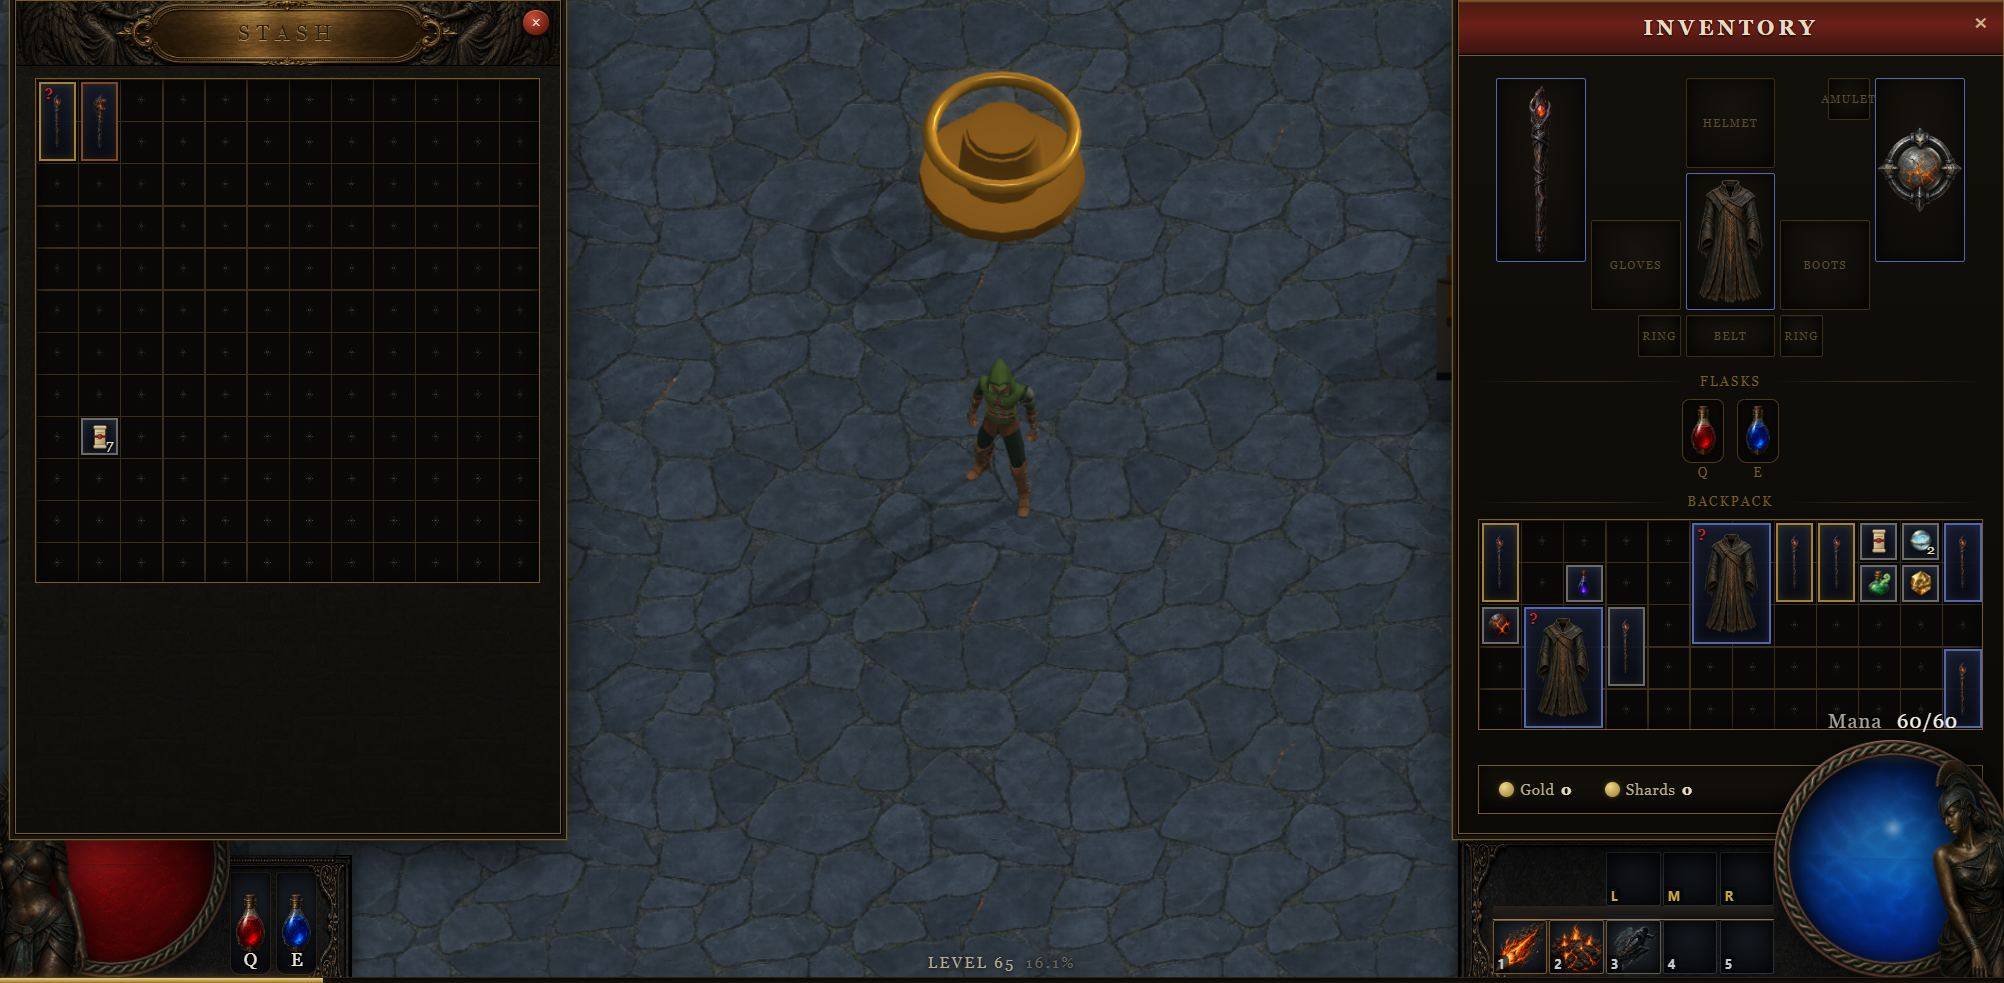
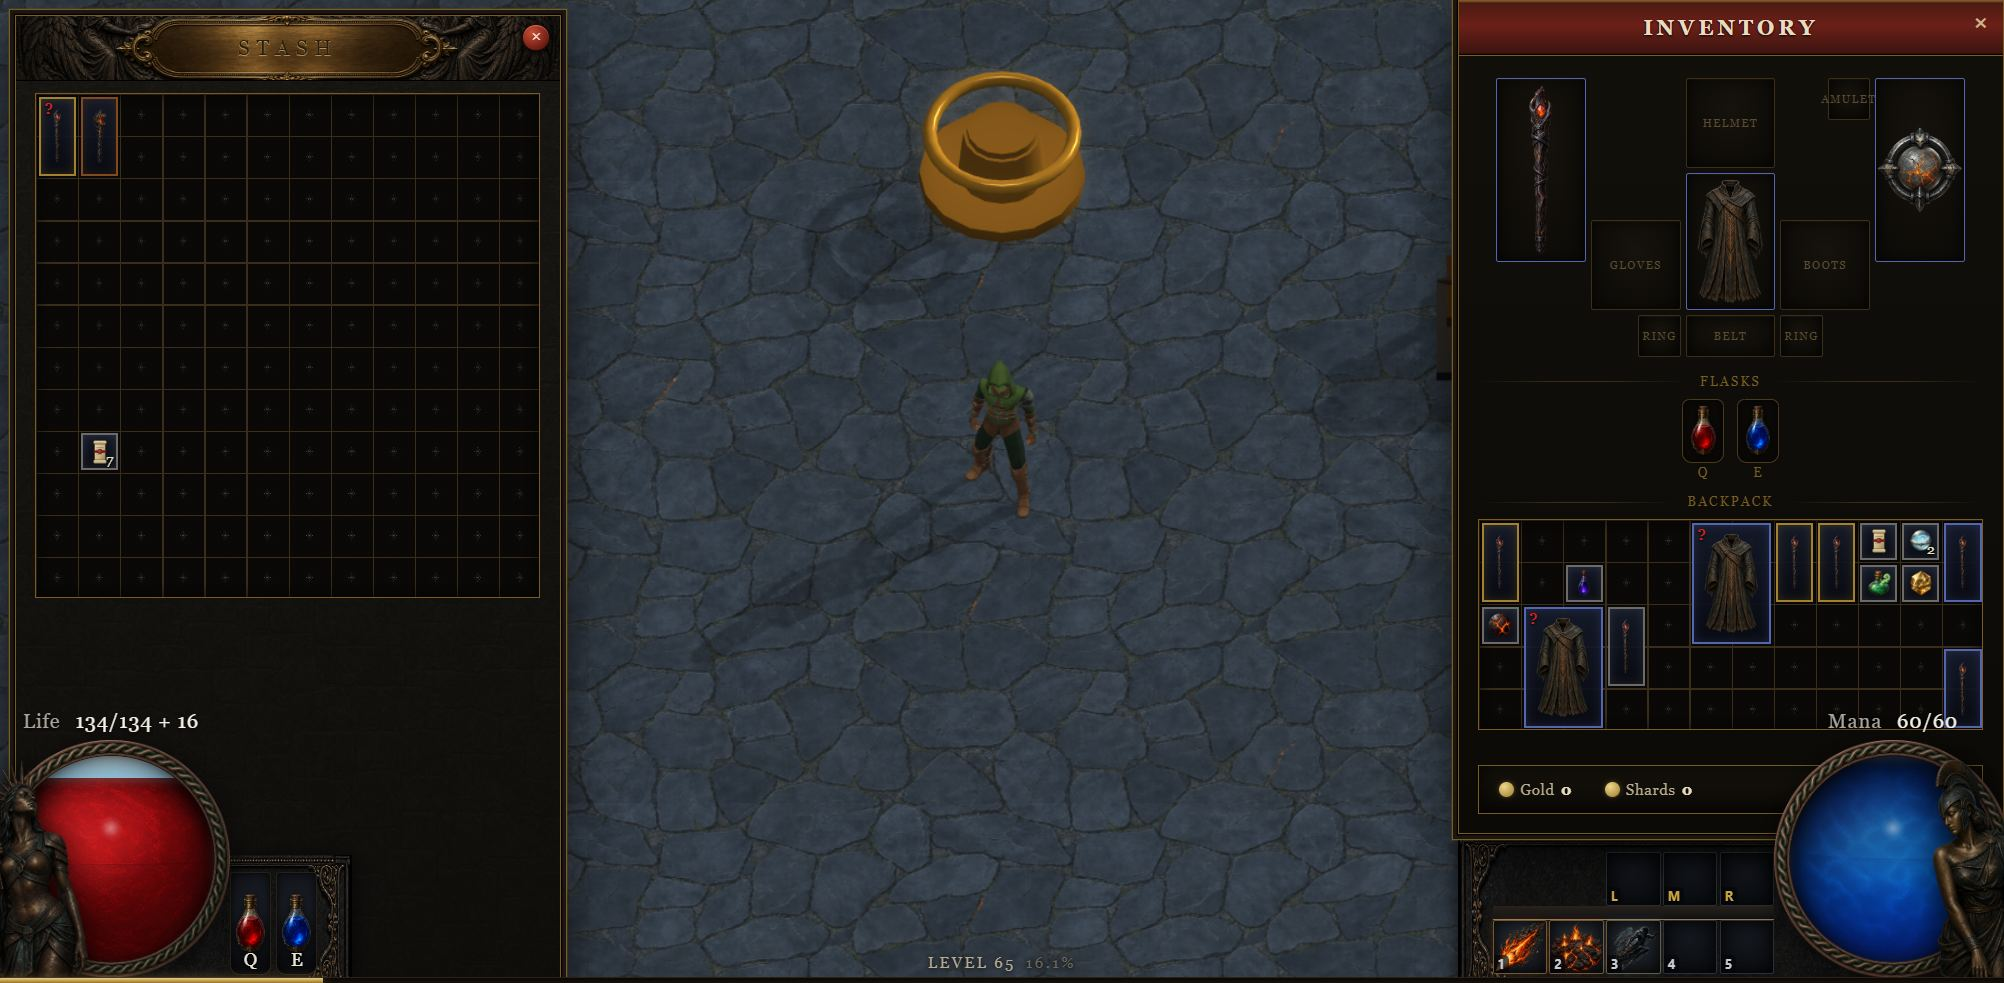
fix(stash): the pane clears the top and runs under the orb
Docked flush to y=0 the frame's outer gilt ring fell off the screen, so the
cartouche read as sheared. It also stopped dead at the bar. Now it starts 12px
in and runs to the screen's bottom edge at zIndex 1, under the flask row and the
skill row as well as the globes, so its lower corner slides behind the life orb
instead of burying it.

diff --git a/apps/web/src/hud/InventoryPanel.tsx b/apps/web/src/hud/InventoryPanel.tsx
@@ -517,22 +517,27 @@ export function InventoryPanel({
 
   return (
     <>
-    {/* The stash rides its own layer above the globes (zIndex 3). It docks into the
-        corner the life orb sits in, and PoE1 never lets the orb clip the pane. */}
+    {/* The stash gets its own layer only so it can dock left while the inventory
+        docks right. It stays under the globes and the bar (zIndex 3), the way the
+        inventory does: the life orb is meant to sit on top of its lower corner.
+        zIndex 1, under the flask row and the skill row as well (both zIndex 2 and
+        both siblings of the HUD, not children of it), or the pane running past the
+        bar would bury the flasks it is supposed to slide behind. */}
     {stash && (
-      <div style={{ position: "absolute", inset: 0, display: "flex", alignItems: "flex-end", justifyContent: "flex-start", pointerEvents: "none", zIndex: 4, fontFamily: SERIF, color: PARCHMENT }}>
+      <div style={{ position: "absolute", inset: 0, display: "flex", alignItems: "flex-end", justifyContent: "flex-start", pointerEvents: "none", zIndex: 1, fontFamily: SERIF, color: PARCHMENT }}>
         <div
           data-testid="stash-panel"
           data-hud-panel=""
           style={{
             pointerEvents: "auto",
-            // Off the screen edge, or the panel's outer gilt line is clipped away.
+            // Off the screen edge on both sides, or the frame's outer gilt line is
+            // clipped away and the cartouche reads as sheared off at the top.
             marginLeft: 12,
-            marginBottom: BAR_H,
-            // Full height, the way the inventory runs: PoE1's stash is a pane from
-            // the top of the screen down to the bar (poe2-screenshots/inventory.png),
-            // and the grid simply sits at its head with empty pane below.
-            height: `calc(100vh - ${BAR_H})`,
+            marginTop: 12,
+            // Runs past the bar instead of stopping at it: PoE1's stash pane ends
+            // behind the life orb and the flask panel, which is what gives the
+            // corner its depth (poe2-screenshots/inventory.png).
+            height: `calc(100vh - 12px)`,
             boxSizing: "border-box",
             display: "flex",
             flexDirection: "column",

diff --git a/devlog/README.md b/devlog/README.md
@@ -181,7 +181,7 @@ The hideout gets storage, quick transfer, and a bench that turns leftovers into 
 </tr>
 <tr>
 <td width="33%"><img src="screenshots/2026-07-26-stash-cartouche.jpeg" alt="The stash under a gilt cartouche header, its grid lattice drawn as tiled art" width="100%"><br><sub><b>The stash gets its cartouche</b> - the real stash was sampled pixel by pixel: cell floors near black at luminance 1, a 1px warm lattice, an engraved crest in every empty square.</sub></td>
-<td width="33%"><img src="screenshots/2026-07-26-stash-full-height.jpeg" alt="The stash pane running from the top of the screen down to the bottom bar" width="100%"><br><sub><b>The stash runs the full height</b> - it rides its own layer over the life orb now, top of the screen to the bar, the way PoE1 opens it.</sub></td>
+<td width="33%"><img src="screenshots/2026-07-26-stash-full-height.jpeg" alt="The stash pane running from the top of the screen down to the bottom bar" width="100%"><br><sub><b>The stash runs the full height</b> - top of the screen down past the bar, its lower corner sliding behind the life orb and the flask panel.</sub></td>
 <td width="33%"><img src="screenshots/2026-07-26-cursor.jpeg" alt="The gilt cursor blade at three sizes and its red-iron refusal variant" width="100%"><br><sub><b>Our own pointer</b> - a gilt blade retires every Windows cursor, cooled to red iron over an item the armed orb cannot touch.</sub></td>
 </tr>
 </table>
